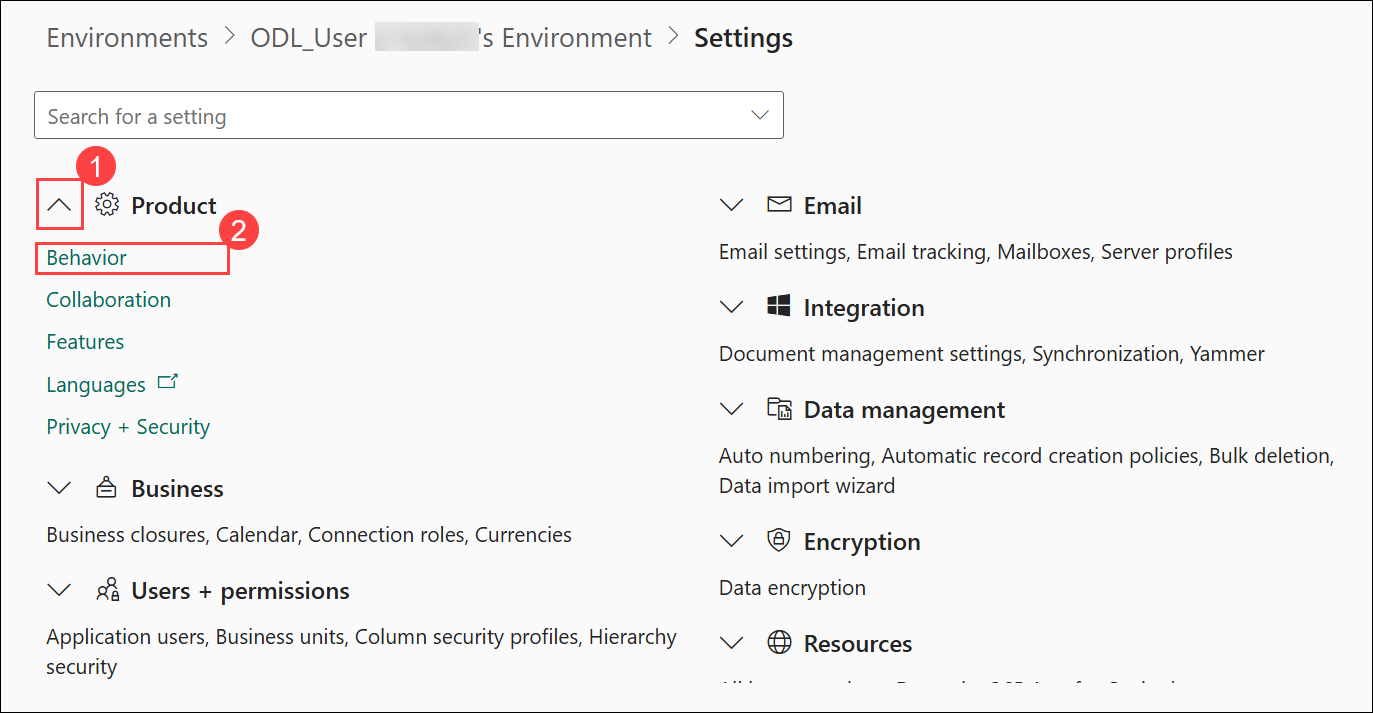
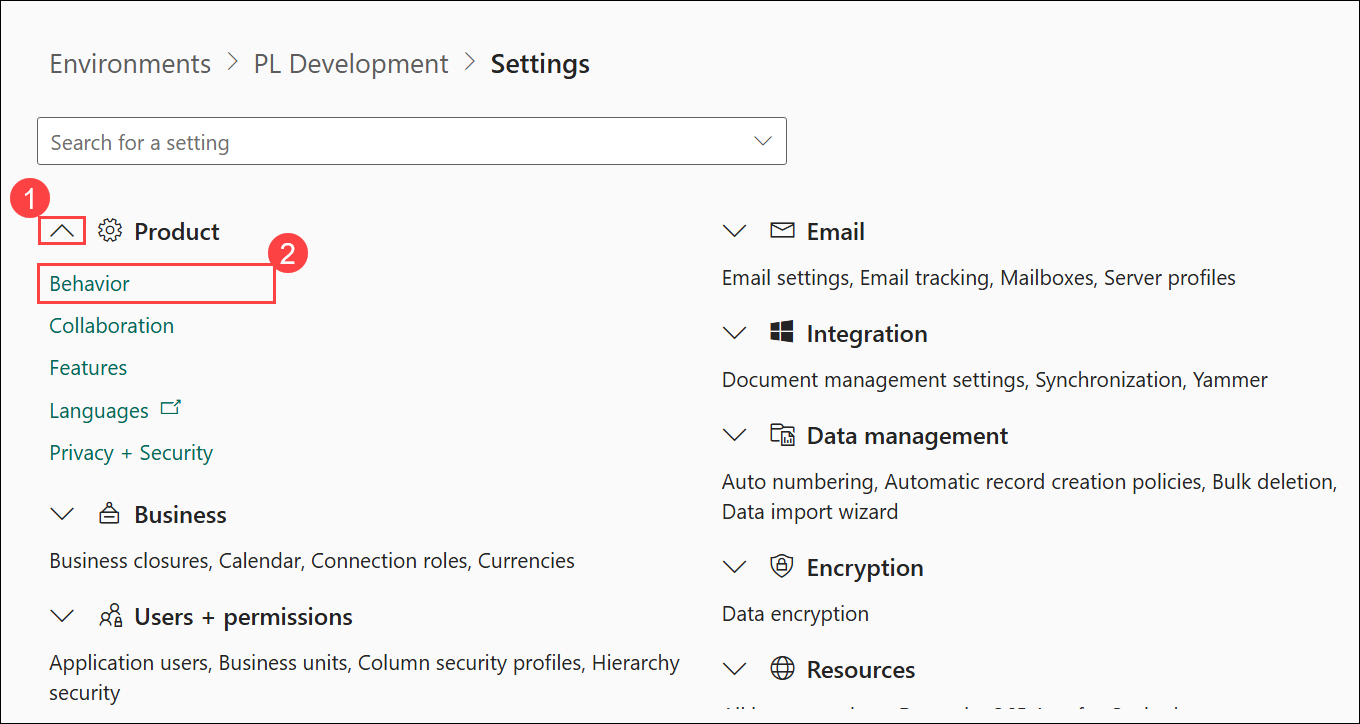
update

diff --git a/Instructions/Labs/LAB[PL-200]_M01L01_Environments.md b/Instructions/Labs/LAB[PL-200]_M01L01_Environments.md
@@ -26,23 +26,11 @@ In this exercise, you will create a *Development* environment that you will do t
 
     ![New environment.](../media/pl200-p3t1p2.png)
 
-1. Select the **ODL_User<inject key="DeploymentID"></inject>** environment by selecting the **ellipsis (...)** **(1)** and from the menu select **Settings (2)**.
-
-    ![New environment.](../media/pl200-p3t1p3.png)
-
-1. Explore the different areas in **Settings** that you may be interested in but do not make any changes yet.
-
-### Task 1.2 - Create the production environment
-
-1. Navigate to Environments in the Power Platform admin center by selecting **Environment** from the left navigation pane.
-
-    ![](../media/pl200-p3t2p1.png)
-
 1.  Now select **+ New**.
 
     ![](../media/pl200-p3t2p2.png)
 
-1.  In the **Name** text box, enter **[my initials] Development (1)**. (Example: PL Development).
+1.  In the **Name** text box, enter **PL Development (1)**.
 
 1.  In the **Type** drop down, select **Developer (2)**.
 
@@ -58,17 +46,11 @@ In this exercise, you will create a *Development* environment that you will do t
 
       ![Environment in the Power Platform admin center.](../media/pl200-p3t2p5.png)
 
-1. You should now see the following environments:
-
-    ![Environment in the Power Platform admin center.](../media/pl200-p3t2p6.png)
-
-    >**Note:** You will use the **ODL_User<inject key="DeploymentID"></inject>** environment for all customizations in the labs. The **Production** environment will act as your live environment to import completed solutions into.
-
-### Task 1.3 – Verify Classic solution explorer is enabled
+### Task 1.2 – Verify Classic solution explorer is enabled
 
 1. Navigate to environments in the Power Platform admin center `https://admin.powerplatform.microsoft.com/manage/environments`.
 
-1. Select the **ODL_User<inject key="DeploymentID"></inject>** environment. Click on the **ellipses (...) (1)** next to its name to expand the drop down menu and select **Settings (2)**.
+1. Select the **PL Development** environment. Click on the **ellipses (...) (1)** next to its name to expand the drop down menu and select **Settings (2)**.
 
      ![Environment in the Power Platform admin center.](../media/pl200-p3t3p1.png)
 
@@ -85,8 +67,30 @@ In this exercise, you will create a *Development* environment that you will do t
     ![](../media/pl200-p3t3p4.png)
 
     ![](../media/pl200-p3t3p5.png)
+
+### Task 1.3 – Create live environment
+
+1.  Navigate to environments in the Power Platform admin center <https://admin.powerplatform.microsoft.com/environments>.
+
+1.  Select **+ New**. 
+
+    ![](../media/pl200-p3t4p1.png)
+
+1.  In the **Name** text box, enter **PL Live (1)**.
+
+1.  In the **Type** drop-down, select **Developer (2)**.
+
+1.  Leave all other selections as default and select **Next (3)**.
+
+    ![](../media/pl200-p3t4p2.png)
+
+1.  On the **Add Dataverse** tab, select **Save**.
+
+1.  You should now see four environments.
+
+    ![Environments.](../media/pl200-p3t4p3.png)
    
-> **Note:** You will use the *Development* environment for all customizations in the labs. The *Live* environment will act as your test/production environment.
+> **Note:** You will use the *PL Development* environment for all customizations in the labs. The *PL Live* environment will act as your test/production environment.
 
 > **Congratulations** on completing the task! Now, it's time to validate it. Here are the steps:
  

diff --git a/Instructions/Labs/LAB[PL-200]_M01L04_Tables.md b/Instructions/Labs/LAB[PL-200]_M01L04_Tables.md
@@ -50,7 +50,7 @@ In this exercise, you will be examining the tables in the Fabrikam Environmental
 
 1.  Expand the **Project Funding** table and examine its columns and relationships.
 
-1.  Select **Business rules (1)** under the **Project Funding (2)** table. There is a rule for the funding percentage. Open the business rule and examine how it works. 
+1.  Select **Business rules (1)** under the **Project Funding** table. There is a rule for the funding percentage **(2)**. Open the business rule and examine how it works. 
 
     ![Project table.](../media/pl200-p6t1p5.png)
 
@@ -173,7 +173,7 @@ In later labs you will be adding columns and relationships to this custom table.
 
 1.  Scroll up, and select the **Primary column (1)** tab.
 
-1.  Enter `Title` for **Display Name (1)**.
+1.  Enter `Title` for **Display Name (2)**.
 
 1.  Expand **Advanced options (3)**.
 

diff --git a/Instructions/Labs/LAB[PL-200]_M01L03_ImportSolution.md b/Instructions/Labs/LAB[PL-200]_M01L03_ImportSolution.md
@@ -177,13 +177,13 @@ In this exercise, you will import data the into the **PL Environment** environme
 
      ![](../media/pl200-p5t2p11.png)
 
-1.  It will open in a new tab in the browser, select **+ Create or upload** and select **Files upload**.
+1.  It will open in a new tab in the browser, select **+ Create or upload (1)** and select **Files upload (2)**.
 
-1.  Navigate to `C:\Allfiles\Labs` **(2)** and select the **Outcome data.xlsx (3)** file and select **Open (4)**.
-
-    ![](../media/pl200-p5t2p12(1).png)
-
-    ![](../media/pl200-p5t2p12.png)
+1.  Navigate to `C:\Allfiles\Labs` **(3)** and select the **Outcome data.xlsx (4)** file and select **Open (5)**.
+     
+     ![](../media/pl200-p5t2p11(1).png)
+     
+     ![](../media/pl200-p5t2p12.png)
 
 ### Task 2.4 – Create a dataflow to import Outcomes
 

diff --git a/Instructions/Labs/LAB[PL-200]_M00L00_Validate_Lab_Environment.md b/Instructions/Labs/LAB[PL-200]_M00L00_Validate_Lab_Environment.md
@@ -44,7 +44,7 @@ In this exercise, you will add a Power Apps trial to the tenant and assign licen
 
     ![](../media/pl200-p2t1p5.png)
 
-8.  At the top right of the screen, verify that the **Environment** is set to **ODL_User<inject key="DeploymentID"></inject> (1)**. This is where you will be working for the entirety of this lab. If it is not, select the **ODL_User<inject key="DeploymentID"></inject> (2)** environment.
+8.  At the top right of the screen, verify that the **Environment** is set to **ODL_User<inject key="DeploymentID"></inject> (1)**. If it is not, select the **ODL_User<inject key="DeploymentID"></inject> (2)** environment.
 
     ![](../media/pl200-p2t1p6.png)
 
